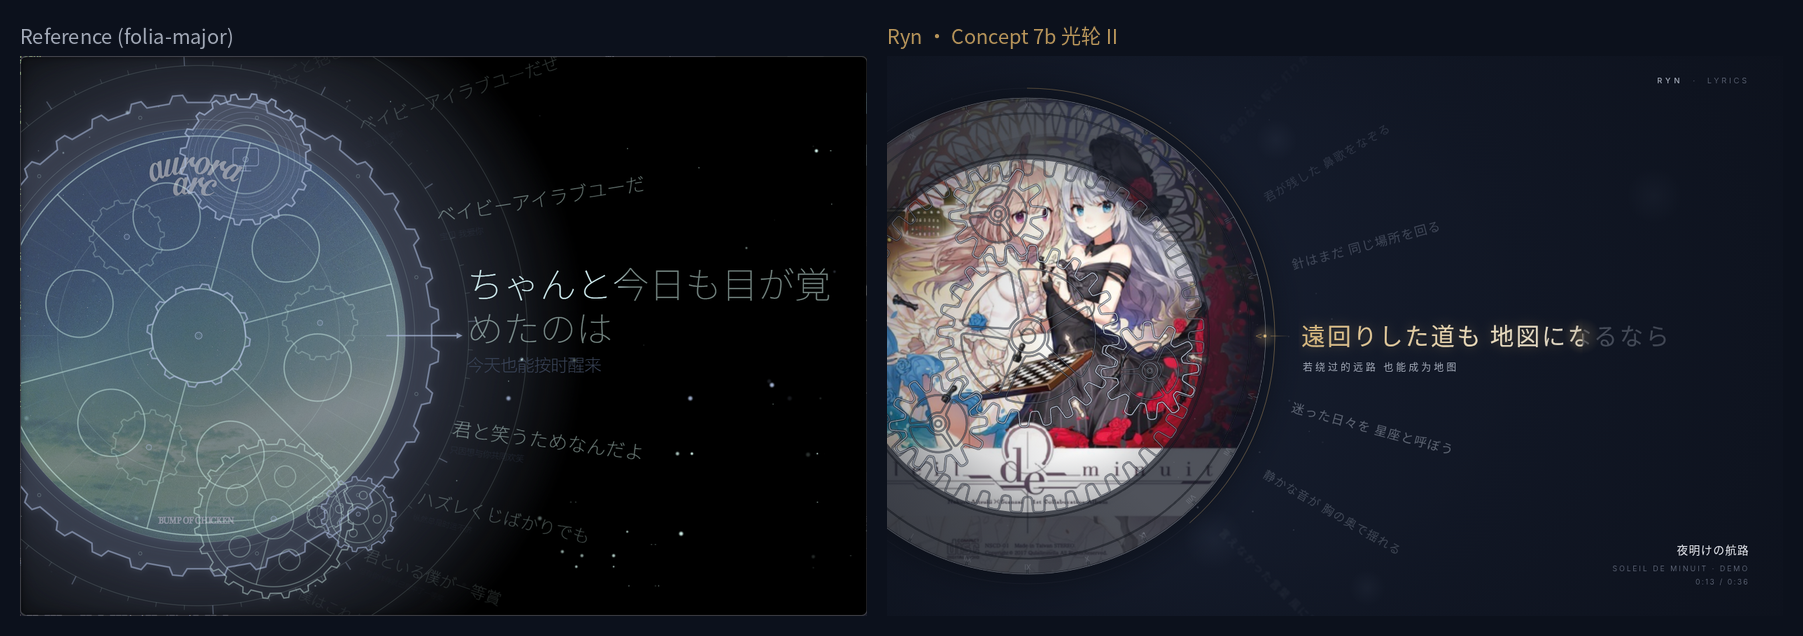
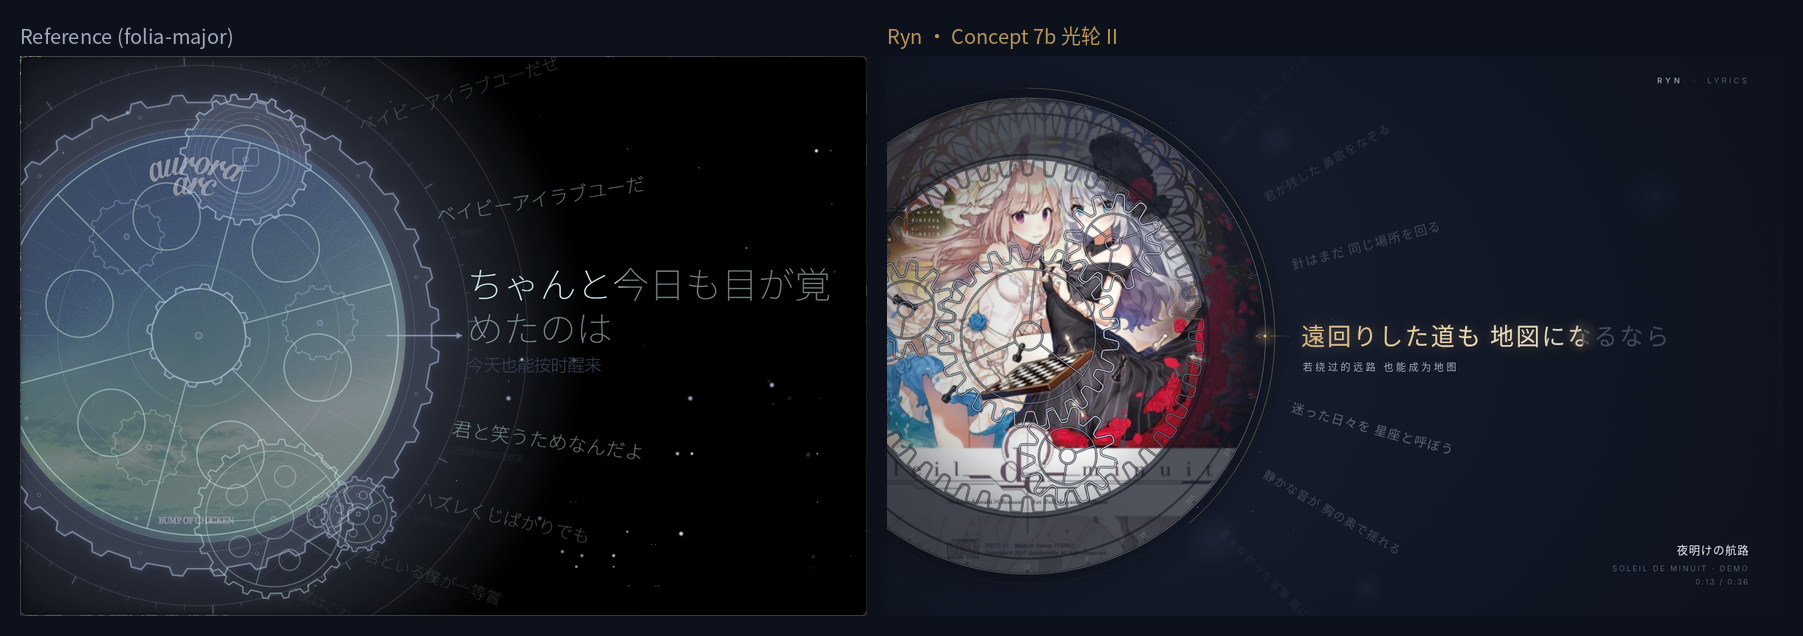
lyric-dial: 7b planets orbit the sun (ring drives), simple 3-spoke outline gears; concept 1 upright lyric text

Changed region(s): [[0.4969, 0.2689, 0.6833, 0.7767]]

diff --git a/ryn-lyric-dial/gallery.html b/ryn-lyric-dial/gallery.html
@@ -12,10 +12,10 @@ a.card img{display:block;width:100%;aspect-ratio:16/10;object-fit:cover}
 <h1>Ryn · 歌词盘 Lyric Dial</h1>
 <p class="sub">6 concepts · 1280×800 · placeholder lyrics · append <code>?t=12.5</code> to freeze a moment</p>
 <div class="grid">
-<a class="card" href="concept-1/index.html"><img src="shots/1.png"><div class="meta"><div class="n">CONCEPT 01</div><div class="t">唱片沟槽 · Vinyl Groove</div><div class="d">封面作唱片中心标，歌词刻在同心沟槽里，唱臂针尖点亮当前行，歌词随播放向内推进。</div><div class="g">Godot: _draw() 同心圆 + 逐字 draw_set_transform 弧形文字；标签旋转用 TextureRect.rotation。</div></div></a>
+<a class="card" href="concept-1/index.html"><img src="shots/1.png"><div class="meta"><div class="n">CONCEPT 01</div><div class="t">唱片沟槽 · Vinyl Groove</div><div class="d">封面作唱片中心标，歌词沿同心沟槽排布、文字保持正立横排，唱臂针尖点亮当前行，歌词随播放向内推进。</div><div class="g">Godot: _draw() 同心圆 + 每行一个正立 draw_string（起点在沟槽与唱针交点）；标签旋转用 TextureRect.rotation。</div></div></a>
 <a class="card" href="concept-2/index.html"><img src="shots/2.png"><div class="meta"><div class="n">CONCEPT 02</div><div class="t">星盘 · Astrolabe</div><div class="d">多层刻度环以不同速度转动，歌词刻在外环上，当前行转到 12 点刻度处摆正并点亮。</div><div class="g">Godot: 每环一个 Node2D(rotation) + _draw 刻度；歌词 draw_set_transform 旋转直排文字。</div></div></a>
 <a class="card" href="concept-3/index.html"><img src="shots/3.png"><div class="meta"><div class="n">CONCEPT 03</div><div class="t">仪表 · Gauge</div><div class="d">底部半圆模拟表盘，歌词沿弧排成刻度标签，指针带回弹扫向当前行，上方大字显示。</div><div class="g">Godot: 刻度烘焙一次（静态 _draw），每帧只重画指针 + 两行大字；Tween TRANS_BACK。</div></div></a>
 <a class="card" href="concept-4/index.html"><img src="shots/4.png"><div class="meta"><div class="n">CONCEPT 04</div><div class="t">八音盒滚筒 · Music-box Drum</div><div class="d">横置的透视滚筒印着歌词，当前行在正面平展，其余行随曲面压缩远去；左侧封面铭牌。</div><div class="g">Godot: draw_set_transform(scale=(sx,cosφ)) 逐行绘制 + 圆柱明暗 shader 或渐变纹理。</div></div></a>
 <a class="card" href="concept-5/index.html"><img src="shots/5.png"><div class="meta"><div class="n">CONCEPT 05</div><div class="t">星轨 · Orbit</div><div class="d">封面为中心天体，歌词沿倾斜椭圆轨道运行，抵达近日点时放大落下；外圈波形环随音频起伏。</div><div class="g">Godot: 轨道点参数方程 + z 排序（后半先画）；波形环用 AudioEffectSpectrumAnalyzer + draw_multiline。</div></div></a>
-<a class="card" href="concept-7b/index.html"><img src="shots/7b.png"><div class="meta"><div class="n">CONCEPT 06 · GEAR (7b)</div><div class="t">光轮 · 行星齿轮 Luminous Planetary</div><div class="d">大表盘偏左、部分出画。外圈是 6b 的罗马数字刻度环（细同心刻线、I–XII 随歌曲转动，当前数字金色），其内缘的 48 个粗齿就是行星齿轮组的齿圈。中心太阳轮（24 齿）压在正立的封面上，三只行星轮（12 齿）同时与太阳轮和齿圈啮合；行星架只有一条穿过行星轮中心的点状细线。封面完整清晰、接近原亮度；齿轮只保留带暗描边的发光细线轮廓，没有任何填充。光线安静，无闪光；右侧歌词沿同心弧，当前行卡拉OK式由金到白点亮。</div><div class="g">Godot: 齿圈/太阳轮/行星轮各一张细线贴图 + 阴影贴图，按 Willis 公式算角度，每帧只改 rotation 和行星位置；封面只需圆形遮罩。<a href="shots/7b-detail.png" style="color:#b8955a">2× 细节图</a> · <a href="shots/7b-vs-ref.png" style="color:#b8955a">与参考对比</a></div></div></a> · <a href="shots/7b-vs-ref.png" style="color:#b8955a">与参考对比</a></div></div></a>
+<a class="card" href="concept-7b/index.html"><img src="shots/7b.png"><div class="meta"><div class="n">CONCEPT 06 · GEAR (7b)</div><div class="t">光轮 · 行星齿轮 Luminous Planetary</div><div class="d">大表盘偏左、部分出画。外圈是 6b 的罗马数字刻度环（细同心刻线、I–XII 随歌曲转动，当前数字金色），其内缘的 48 个粗齿就是行星齿轮组的齿圈。中心太阳轮（24 齿）压在正立的封面上，三只行星轮（12 齿）同时与太阳轮和齿圈啮合，由齿圈驱动绕太阳轮公转（每句 10°）；行星架只有一条穿过行星轮中心的点状细线。封面完整清晰、接近原亮度；齿轮只保留带暗描边的发光细线轮廓（齿形、轮缘、轮毂、三根直辐条），没有任何填充。光线安静，无闪光；右侧歌词沿同心弧，当前行卡拉OK式由金到白点亮。</div><div class="g">Godot: 齿圈/太阳轮/行星轮各一张细线贴图 + 阴影贴图，按 Willis 公式算角度，每帧只改 rotation 和行星位置；封面只需圆形遮罩。<a href="shots/7b-detail.png" style="color:#b8955a">2× 细节图</a> · <a href="shots/7b-vs-ref.png" style="color:#b8955a">与参考对比</a></div></div></a> · <a href="shots/7b-vs-ref.png" style="color:#b8955a">与参考对比</a></div></div></a>
 </div></body></html>

diff --git a/ryn-lyric-dial/concept-7b/index.html b/ryn-lyric-dial/concept-7b/index.html
@@ -57,7 +57,7 @@ const circ = (r, p = new Path2D(), x = 0, y = 0) => { p.moveTo(x + r, y); p.arc(
 
 // ── the planetary set: Zr = Zs + 2·Zp (48 = 24 + 2·12), (Zs + Zr)/3 = 24 → three equally spaced planets mesh
 const ZS = 24, ZP = 12, NP = 3;
-const SUN = {Z: ZS, R: MI * ZS / 2, n: 5, hub: 24}, PLANET = {Z: ZP, R: MI * ZP / 2, n: 3, hub: 11};
+const SUN = {Z: ZS, R: MI * ZS / 2, n: 3, hub: 20}, PLANET = {Z: ZP, R: MI * ZP / 2, n: 3, hub: 11};
 const RC = SUN.R + PLANET.R;                                   // carrier radius 180 (= RRI − Rp)
 function meshExt(a, b, thA) { const psi = Math.atan2(b.y - a.y, b.x - a.x); return psi + Math.PI - Math.PI / b.Z + (a.Z / b.Z) * (psi - thA); }
 
@@ -67,18 +67,18 @@ function bakeWheel(def) {
   const g = c.getContext('2d'); g.scale(SS, SS); g.translate(S / 2, S / 2); g.lineJoin = 'round';
   if (def.frost) { g.fillStyle = `rgba(${INK},${def.frost})`; g.fill(def.body, 'evenodd'); g.globalCompositeOperation = 'destination-out'; g.fillStyle = '#000'; for (const w of def.wins) g.fill(w); g.globalCompositeOperation = 'source-over'; }
   const items = def.lines;   // [path, weight 0..1, dashed]
-  g.strokeStyle = 'rgba(6,9,16,.55)'; for (const [p, k, dash] of items) { if (dash) continue; g.lineWidth = 2.6 + k; g.stroke(p); }
-  for (const [p, k, dash] of items) { if (dash) continue; g.strokeStyle = `rgba(${INK},${.07 * k})`; g.lineWidth = 4; g.stroke(p); }
-  for (const [p, k, dash] of items) { g.setLineDash(dash ? [2, 5] : []); g.strokeStyle = `rgba(${INK},${k})`; g.lineWidth = dash ? .8 : .7 + .5 * k; g.stroke(p); }
+  for (const [p, k, dash] of items) { if (dash) continue; g.strokeStyle = `rgba(${INK},${.06 * k})`; g.lineWidth = 5; g.stroke(p); }   // faint glow
+  g.strokeStyle = 'rgba(6,9,16,.62)'; for (const [p, k, dash] of items) { if (dash) continue; g.lineWidth = 2.8 + k; g.stroke(p); }  // dark under-stroke
+  for (const [p, k, dash] of items) { g.setLineDash(dash ? [2, 5] : []); g.strokeStyle = `rgba(${INK},${k})`; g.lineWidth = dash ? .8 : .8 + .5 * k; g.stroke(p); }
   g.setLineDash([]); return c;
 }
 function wheelDef(w) {
   const m = MI, rRoot = w.R - 1.2 * m, rim = Math.max(7, w.R * .1), out = toPath(teeth(w.Z, w.R, m, false));
-  const sw = w.R * .07, wins = [];
-  for (let k = 0; k < w.n; k++) wins.push(toPath(windowShape(k * TAU / w.n, (k + 1) * TAU / w.n, w.hub + 5, rRoot - rim, sw * .9, sw * .6)));
-  const body = new Path2D(); body.addPath(out);
-  return {size: 2 * (w.R + m) + 16, wins, body, frost: 0,
-    lines: [[out, .85], ...wins.map(p => [p, .4]), [circ(w.hub), .5], [circ(w.hub * .42), .35], [circ(w.R), .2, true]]};
+  // simple interior: inner rim circle, plain hub, w.n straight thin spokes
+  const spokes = new Path2D();
+  for (let k = 0; k < w.n; k++) { const a = k * TAU / w.n + Math.PI / 2; spokes.moveTo(Math.cos(a) * w.hub, Math.sin(a) * w.hub); spokes.lineTo(Math.cos(a) * (rRoot - rim), Math.sin(a) * (rRoot - rim)); }
+  return {size: 2 * (w.R + m) + 16, wins: [], body: out, frost: 0,
+    lines: [[out, .95], [circ(rRoot - rim), .62], [spokes, .7], [circ(w.hub), .72]]};
 }
 const B = {};
 function bake(cover) {
@@ -117,7 +117,9 @@ boot(({ctx, cover}, t, s) => {
   // kinematics
   const thR = -s.p * STEP;
   // planetary kinematics: ring = lyric arc, carrier drifts slowly, sun by Willis (+ phase so all teeth mesh)
-  const thC = t * .02, thS = thC * (1 + ZRI / ZS) - (ZRI / ZS) * thR + Math.PI * ZP / ZS;
+  // the ring drives, the sun is nearly held (a very slow creep): the carrier — and the planets with it —
+  // visibly orbit the sun, 10° per lyric line (θC = (Zs·θS + Zr·θR)/(Zs + Zr)), gliding with the line easing
+  const thS = Math.PI * ZP / ZS - t * .03, thC = (ZS * (thS - Math.PI * ZP / ZS) + ZRI * thR) / (ZS + ZRI);
   const W = [{tex: 'sun', def: SUN.def, x: CX, y: CY, th: thS, d: 1}];
   for (let i = 0; i < NP; i++) { const psi = thC + i * TAU / NP, w = {Z: ZP, x: CX + Math.cos(psi) * RC, y: CY + Math.sin(psi) * RC};
     W.push({tex: 'planet', def: PLANET.def, x: w.x, y: w.y, th: meshExt({x: CX, y: CY, Z: ZS}, w, thS), d: 1.3}); }

diff --git a/ryn-lyric-dial/concept-1/index.html b/ryn-lyric-dial/concept-1/index.html
@@ -71,13 +71,17 @@ boot(({ctx, cover}, t, s) => {
     const base = it.d > 0 ? C.sec : C.muted;
     ctx.fillStyle = f > 0.01 ? mixColor(base, C.goldHi, f) : base;
     ctx.globalAlpha = clamp(fade * (it.d < 0 ? .55 : .8) + f * .5);
-    arcText(ctx, LYRICS[it.i].ja, CX, CY, r, A + 0.035, 'start', f * 1.5);
-    // translation: rides just inside the current groove
+    // upright text: each line starts where its groove meets the needle and reads horizontally
+    const sx = CX + r * Math.cos(A + 0.035) + 6, sy = CY + r * Math.sin(A + 0.035) + 4;
+    ctx.textAlign = 'left'; ctx.letterSpacing = `${(f * 1.5).toFixed(2)}px`;
+    ctx.fillText(LYRICS[it.i].ja, sx, sy);
+    // translation: upright, just below the current line
     if (f > 0.02) {
-      ctx.globalAlpha = f * f;
+      ctx.globalAlpha = f * f; ctx.letterSpacing = '1px';
       ctx.font = `400 15px ${FONT_ZH}`; ctx.fillStyle = C.sec;
-      arcText(ctx, LYRICS[it.i].zh, CX, CY, r - 30, A + 0.04, 'start', 1);
+      ctx.fillText(LYRICS[it.i].zh, sx + 2, sy + 28);
     }
+    ctx.letterSpacing = '0px';
     ctx.globalAlpha = 1;
   }
 

diff --git a/ryn-lyric-dial/README.md b/ryn-lyric-dial/README.md
@@ -11,12 +11,12 @@ In Godot: compute `p` in `_process`, call `queue_redraw()`, map in `_draw()`.
 
 | # | Concept | Godot mapping | Per-frame cost (rough) |
 |---|---------|---------------|------------------------|
-| 1 | 唱片沟槽 Vinyl | Record + grooves baked to a texture (or static `_draw` cached in a separate CanvasItem); label = `TextureRect` with circle mask shader, `rotation += delta*k`. Sheen = additive wedge sprite rotating. Lyrics: per-glyph `draw_set_transform(pos, angle+PI/2)` + `draw_char` (or `draw_string` per char) along the arc. Tonearm = `Sprite2D`/`Line2D`. | ~8 lines × ~15 glyphs ≈ 120 `draw_char` + few arcs. Cheap. |
+| 1 | 唱片沟槽 Vinyl | Record + grooves baked to a texture (or static `_draw` cached in a separate CanvasItem); label = `TextureRect` with circle mask shader, `rotation += delta*k`. Sheen = additive wedge sprite rotating. Lyrics: upright horizontal `draw_string` per line, anchored where its groove meets the needle (start point = centre + r·(cos A, sin A)); no glyph rotation. Tonearm = `Sprite2D`/`Line2D`. | ~8 lines × ~15 glyphs ≈ 120 `draw_char` + few arcs. Cheap. |
 | 2 | 星盘 Astrolabe | Each ring a `Node2D` whose `_draw` emits ticks once (cached); animate only `rotation`. Lyrics: one `draw_set_transform(pos, angle)` + `draw_string` per line (straight, tangent-rotated). Cover with circle mask shader. | Rings cost ~0 after caching (transform only); 5 `draw_string`/frame. Very cheap. |
 | 3 | 仪表 Gauge | Dial face, progress ticks and radial labels redrawn only on line change (separate CanvasItem); needle = `Sprite2D`/`Polygon2D` with `rotation` driven by Tween `TRANS_BACK` (+ tiny jitter from `AudioEffectSpectrumAnalyzer`). Big line = 2 `Label`s cross-faded via `modulate.a`. | Per frame: 1 transform + 2 labels. Cheapest. |
 | 4 | 八音盒滚筒 Drum | For each visible line: `draw_set_transform(Vector2(cx, cy+R*sin φ), 0, Vector2(sx, cos φ))` then `draw_string`. Barrel silhouette = `draw_colored_polygon`; cylinder shading = gradient texture or a tiny CanvasItem shader on a ColorRect (`cos` shading on UV.y). Ribs = `draw_line` loop. | ~7 lines × 2 strings + ~40 lines + polygon. Cheap. Alternative: real 3D `CylinderMesh` + `SubViewport` text texture (heavier, not needed). |
 | 5 | 星轨 Orbit | Orbit points from parametric ellipse; sort by z (back half drawn before the cover node, front half after — two CanvasItems or `z_index`). Labels: `draw_string` with font size lerp (use a few cached sizes or `scale` transform to avoid font re-raster). Waveform ring: 120 radial segments via one `draw_multiline` fed by `AudioEffectSpectrumAnalyzerInstance.get_magnitude_for_frequency_range`. | 12 strings + 1 multiline (120 segs) + 3 ellipse polylines. Cheap. |
-| 7b | 光轮 II Luminous Planetary | Large dial (Ø680 band, centre x=200, partly off-screen). True planetary set: ring = the 6b engraved band (thin concentric rings, 24 quiet ticks, small Roman numerals I–XII, current numeral gold) with 48 coarse inner teeth (m 10, R 240) on its inner edge; sun Zs 24 (R 120) at the dial centre over the upright cover; three planets Zp 12 (R 60) on a carrier of radius 180. Zr = Zs + 2·Zp and (Zs+Zr)/3 = 24 → equal spacing meshes. Carrier is only a dotted hairline through the planet centres (no arms/bridges). Kinematics: ring θR = −p·15° (drives the lyric arc; 12 lines = 180° = 24 teeth → seamless), carrier θC drifts slowly, sun by Willis θS = θC(1+Zr/Zs) − (Zr/Zs)θR + π·Zp/Zs (phase so all teeth mesh), planets via external mesh with the sun `θp = ψ + π − π/Zp + (Zs/Zp)(ψ − θS)`. Cover fully clear at near-full brightness (only a light edge vignette); gears are luminous outlines only (no fill, no tint, no blur). Lines: dark under-stroke + faint glow + hairline. No gear shadows (only a barely visible band shadow), small parallax, calm faint glint on the sun pitch circle (no mesh flashes), gold progress arc + gold index point + hairline at 3 o'clock, karaoke gold→white lyric arc. **Godot:** ring/sun/planet line-art + shadow textures baked once, per frame set 5 `rotation`s + 3 planet positions; numerals `draw_string` on the band (or baked into the ring texture with a separate gold label for the current one); cover is a plain TextureRect with a circle-mask shader; karaoke shader with `reveal` uniform. | ~9 sprites + 1 SubViewport + 2 small shaders; cheap. |
+| 7b | 光轮 II Luminous Planetary | Large dial (Ø680 band, centre x=200, partly off-screen). True planetary set: ring = the 6b engraved band (thin concentric rings, 24 quiet ticks, small Roman numerals I–XII, current numeral gold) with 48 coarse inner teeth (m 10, R 240) on its inner edge; sun Zs 24 (R 120) at the dial centre over the upright cover; three planets Zp 12 (R 60) on a carrier of radius 180. Zr = Zs + 2·Zp and (Zs+Zr)/3 = 24 → equal spacing meshes. Carrier is only a dotted hairline through the planet centres (no arms/bridges). Kinematics: ring θR = −p·15° drives (lyric arc; 12 lines = 180° = 24 teeth → seamless), sun nearly held (θS = π·Zp/Zs − 0.03·t), so the carrier — and the planets — visibly orbit: θC = (Zs·θS' + Zr·θR)/(Zs+Zr), i.e. 10° per line, gliding with the line easing, planets via external mesh with the sun `θp = ψ + π − π/Zp + (Zs/Zp)(ψ − θS)`. Cover fully clear at near-full brightness (only a light edge vignette); gears are luminous outlines only (no fill, no tint, no blur): teeth outline, one inner-rim circle, plain hub circle and 3 straight thin spokes. Lines: dark under-stroke + faint glow + hairline. No gear shadows (only a barely visible band shadow), small parallax, calm faint glint on the sun pitch circle (no mesh flashes), gold progress arc + gold index point + hairline at 3 o'clock, karaoke gold→white lyric arc. **Godot:** ring/sun/planet line-art + shadow textures baked once, per frame set 5 `rotation`s + 3 planet positions; numerals `draw_string` on the band (or baked into the ring texture with a separate gold label for the current one); cover is a plain TextureRect with a circle-mask shader; karaoke shader with `reveal` uniform. | ~9 sprites + 1 SubViewport + 2 small shaders; cheap. |
 
 Notes: avoid changing font size every frame in Godot (each new size rasterizes glyphs) — prefer drawing at
 the max size and scaling via `draw_set_transform`, or snap to a few sizes. Use MSDF fonts for crisp rotated/scaled text.
